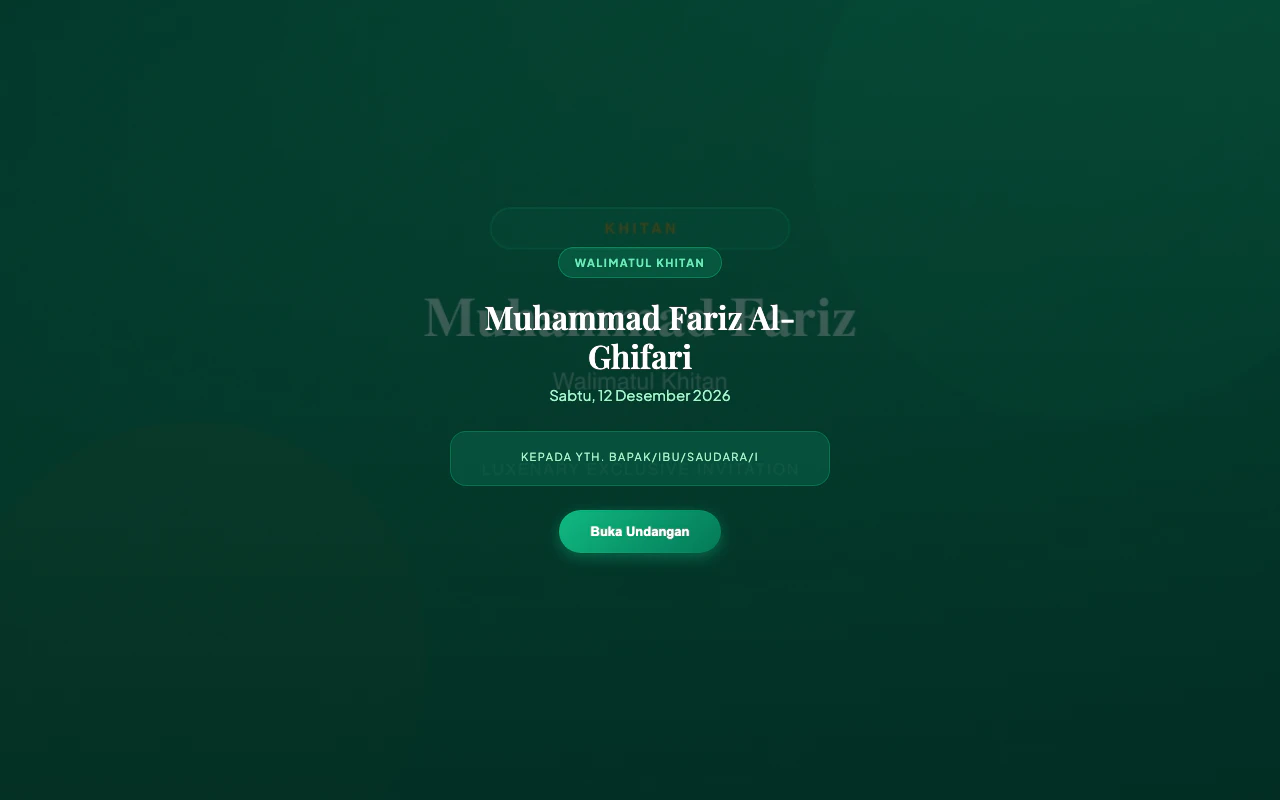
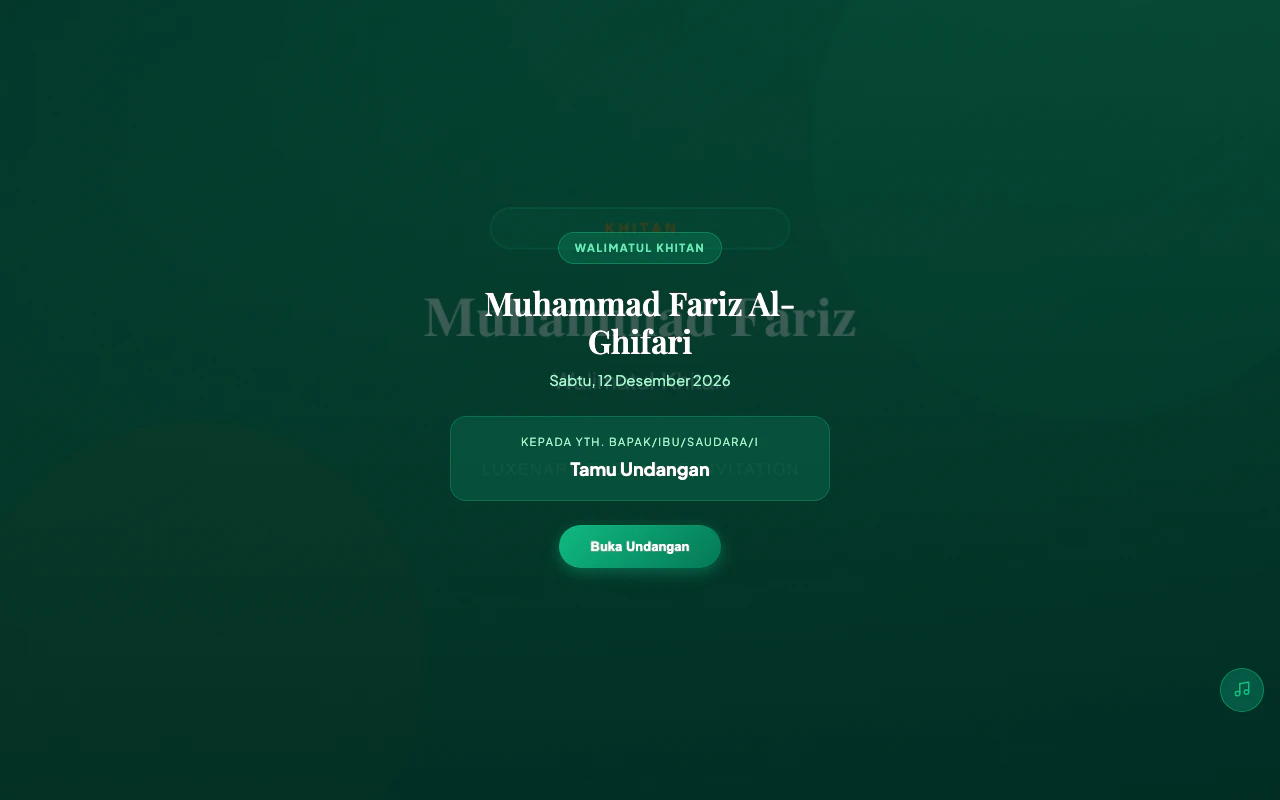
fix: guest path links carry the name, exact invitation-host matching, catalog thumbnails, README guest limits
- proxy: /Nama and /v=Nama on a subdomain or custom domain redirect (307) to /?to= / ?v=
  on the same host; runtime and theme masters read the guest name from location.search,
  so the old internal rewrite showed the invitation without the guest's name.
- invitationHomePath: gallery/moment pages redirect and link to "/" on the invitation's
  own host ("/<slug>" there is now a guest link) and to "/<slug>" on the apex.
- Invitation-host detection matches "<subdomain>.<apex>" exactly (also in the gallery-mode
  redirect); a prefix check matched the apex itself when a client subdomain equals the
  apex's first label.
- Dummy catalog thumbnails for riang, fajar, buaian, prakarsa from their demos' cover
  photos (replaceable from Studio Demo); al-fariz, al-khalid, cendekia, sinergi thumbnails
  regenerated from current demos (sinergi showed a raw {{eventBadge}} token).
- README no longer claims 300/1,000 guest caps: buyer-facing package text promises
  unlimited guest links and the code enforces none.
- Tests in subdomainProxy.test.ts and e2eFindings20261020.test.ts; docs synced.

diff --git a/proxy.ts b/proxy.ts
@@ -22,6 +22,25 @@ const CACHE_TTL_MS = 5 * 60 * 1000; // 5 menit
 const INTERNAL_BASE_URL = `http://127.0.0.1:${process.env.PORT || "3000"}`;
 const CACHE_MAX_ENTRIES = 2000;
 
+/**
+ * Tautan tamu bentuk /Nama atau /v=Nama di subdomain atau custom domain: nama dipindah ke ?to= / ?v= di URL peramban.
+ * Skrip runtime dan master tema membaca nama tamu dari location.search, jadi rewrite internal (URL peramban tetap
+ * /Nama) membuat undangan tampil tanpa nama tamu.
+ */
+function guestPathRedirect(req: { nextUrl: URL }, host: string, segment: string) {
+  let name = segment;
+  try {
+    name = decodeURIComponent(segment);
+  } catch {
+    // Persen-encoding rusak (mis. "50%"): segmen dipakai apa adanya sebagai nama.
+  }
+  const target = new URL("/", `${req.nextUrl.protocol}//${host}`);
+  target.search = req.nextUrl.search;
+  if (name.startsWith("v=")) target.searchParams.set("v", name.slice(2));
+  else target.searchParams.set("to", name);
+  return NextResponse.redirect(target, 307);
+}
+
 async function resolveCustomDomain(host: string): Promise<CustomDomainResolution | null> {
   const now = Date.now();
 
@@ -219,15 +238,7 @@ export const proxy = auth(async (req) => {
       // Dynamic Path Routing for Guest Invitation (e.g. /v=Budi or /Sutejo)
       const segments = pathname.split('/').filter(Boolean);
       if (segments.length === 1) {
-        const guestParam = segments[0];
-        const rewriteUrl = new URL(`/s/${subdomain}`, req.url);
-        rewriteUrl.search = req.nextUrl.search;
-        if (guestParam.startsWith('v=')) {
-          rewriteUrl.searchParams.set('v', guestParam.slice(2));
-        } else {
-          rewriteUrl.searchParams.set('to', guestParam);
-        }
-        return NextResponse.rewrite(rewriteUrl);
+        return guestPathRedirect(req, host, segments[0]);
       }
 
       // HTML terbit dan halaman /s/<sub> menautkan ke /s/<sub>/..., bentuk yang sah di apex. Di host subdomain undangan
@@ -291,9 +302,7 @@ export const proxy = auth(async (req) => {
           if (isFinished && !viewInvitation) {
             return NextResponse.rewrite(new URL(`/${slug}/memories${req.nextUrl.search}`, req.url));
           }
-          const rewriteUrl = new URL(`/${slug}`, req.url);
-          rewriteUrl.searchParams.set('to', segments[0]);
-          return NextResponse.rewrite(rewriteUrl);
+          return guestPathRedirect(req, host, segments[0]);
         }
       }
     } catch {

diff --git a/app/(public)/s/[subdomain]/route.ts b/app/(public)/s/[subdomain]/route.ts
@@ -1,6 +1,6 @@
 import { NextRequest, NextResponse } from "next/server";
 import { prisma } from "@/lib/prisma";
-import { isSubdomainExpired } from "@/lib/domainUtils";
+import { getApexRootDomain, isSubdomainExpired } from "@/lib/domainUtils";
 import { getPublishedHtml, buildAndSavePublishedHtml } from "@/lib/staticPublisher";
 import { composeTemplateData } from "@/lib/themeEngine";
 import { renderTemplateFile } from "@/lib/renderTemplate";
@@ -126,7 +126,7 @@ export async function GET(req: NextRequest, { params }: { params: Promise<{ subd
         // dari req.url membawa tamu di sub.domain ke /memories milik apex (halaman demo platform). Browser menyelesaikan
         // path relatif terhadap alamat yang sedang dibuka: host subdomain -> /memories, bentuk apex /s/<sub> -> /s/<sub>/memories.
         const host = (req.headers.get("host") || "").split(":")[0].toLowerCase();
-        const onInvitationHost = host.startsWith(`${subdomain.toLowerCase()}.`);
+        const onInvitationHost = host === `${subdomain.toLowerCase()}.${getApexRootDomain().split(":")[0].toLowerCase()}`;
         const target = `${onInvitationHost ? "" : `/s/${subdomain}`}/memories${req.nextUrl.search}`;
         return new NextResponse(null, { status: 307, headers: { Location: target } });
       }
@@ -170,7 +170,7 @@ export async function GET(req: NextRequest, { params }: { params: Promise<{ subd
   };
 
   if (invitation.status === "PUBLISHED" && !isPreview) {
-    // Edge cache 1 jam: tautan tamu (/Nama, ?to=Nama) adalah kunci cache terpisah yang tidak ikut terhapus purge URL
+    // Edge cache 1 jam: tautan tamu (?to=Nama; bentuk /Nama dialihkan proxy ke sana) adalah kunci cache terpisah yang tidak ikut terhapus purge URL
     // dasar, jadi masa cache ini sekaligus batas lama undangan yang diturunkan/diubah masih tampil di tautan tamu.
     responseHeaders["Cache-Control"] = "public, max-age=60, s-maxage=3600, stale-while-revalidate=300";
   } else {

diff --git a/lib/serverDomainUtils.ts b/lib/serverDomainUtils.ts
@@ -1,4 +1,5 @@
 import { headers } from "next/headers";
+import { getApexRootDomain, isCustomDomainHost } from "@/lib/domainUtils";
 
 /**
  * Mendeteksi URL origin aplikasi secara dinamis dari incoming request headers.
@@ -81,4 +82,19 @@ export async function getDynamicServerRootDomain(defaultFallback = "localhost:30
 
   const envRoot = process.env.NEXT_PUBLIC_ROOT_DOMAIN || "";
   return envRoot.replace(/^https?:\/\//, "").replace(/\/$/, "") || defaultFallback;
+}
+
+/**
+ * Alamat beranda undangan untuk redirect dari halaman turunannya (/memories, /sharemoment). Di host subdomain atau
+ * custom domain undangan itu sendiri berandanya "/": "/<slug>" di host tersebut dibaca proxy sebagai tautan tamu
+ * bernama <slug>.
+ */
+export async function invitationHomePath(invitation: { invitationSlug: string; subdomain: string | null; customDomain: string | null }): Promise<string> {
+  const hostHeader = (await headers()).get("host");
+  const host = (hostHeader || "").split(":")[0].toLowerCase();
+  // Dicocokkan persis dengan <subdomain>.<apex>: awalan saja juga cocok dengan apex itu sendiri bila subdomain klien
+  // sama dengan label pertama domain utama (mis. subdomain "luxenary" di luxenary.id).
+  const apex = getApexRootDomain().split(":")[0].toLowerCase();
+  const onSubdomain = !!invitation.subdomain && host === `${invitation.subdomain.toLowerCase()}.${apex}`;
+  return onSubdomain || isCustomDomainHost(hostHeader, invitation.customDomain) ? "/" : `/${invitation.invitationSlug}`;
 }

diff --git a/app/(public)/[slug]/memories/page.tsx b/app/(public)/[slug]/memories/page.tsx
@@ -3,6 +3,7 @@ import { notFound, redirect } from "next/navigation";
 import Link from "next/link";
 import { prisma } from "@/lib/prisma";
 import { hasPlanCapability } from "@/lib/settings";
+import { invitationHomePath } from "@/lib/serverDomainUtils";
 import { resolveInvitationDisplayName } from "@/lib/invitationUtils";
 import { jsonForInlineScript } from "@/lib/safeJson";
 import { parseFeatureSettings } from "@/lib/featureSettings";
@@ -52,15 +53,16 @@ export default async function GuestMemoriesGalleryPage({ params }: PageProps) {
   }
 
   // Cek kapabilitas guest_memories secara dinamis berdasarkan konfigurasi admin
+  const homePath = await invitationHomePath(invitation);
   const canAccessMemories = await hasPlanCapability(invitation.order?.planType, "guest_memories");
   if (!canAccessMemories) {
-    redirect(`/${slug}`);
+    redirect(homePath);
   }
 
   const memories: any[] = invitation.guestMemories || [];
   const coupleName = resolveInvitationDisplayName(invitation);
-  const invitationUrl = `/${slug}?view=invitation`;
-  const shareMomentUrl = `/${slug}/sharemoment`;
+  const invitationUrl = `${homePath}?view=invitation`;
+  const shareMomentUrl = homePath === "/" ? "/sharemoment" : `/${slug}/sharemoment`;
 
   // ── 1. PARSE FEATURE SETTINGS & DELAYED REVEAL STATUS ──
   const fs = parseFeatureSettings(invitation.featureSettings);

diff --git a/__tests__/unit/subdomainProxy.test.ts b/__tests__/unit/subdomainProxy.test.ts
@@ -64,3 +64,23 @@ describe("proxy: batas pengalihan tetap", () => {
     expect(res.headers.get("x-middleware-next")).toBe("1");
   });
 });
+
+describe("proxy: tautan tamu bentuk /Nama di host subdomain", () => {
+  // Skrip undangan membaca nama tamu dari location.search; rewrite internal membuat sampul tampil tanpa nama.
+  it("/Nama dialihkan ke /?to=Nama di host yang sama (spasi ter-decode, query lain ikut)", async () => {
+    const res = await run("bagas-laras.localhost:3000", "/Budi%20Santoso?autoplay=1");
+    expect(res.status).toBe(307);
+    const loc = new URL(res.headers.get("location")!);
+    expect(loc.host).toBe("bagas-laras.localhost:3000");
+    expect(loc.pathname).toBe("/");
+    expect(loc.searchParams.get("to")).toBe("Budi Santoso");
+    expect(loc.searchParams.get("autoplay")).toBe("1");
+  });
+
+  it("/v=Nama dialihkan ke /?v=Nama; persen-encoding rusak dipakai apa adanya", async () => {
+    const v = new URL((await run("bagas-laras.localhost:3000", "/v=Rina")).headers.get("location")!);
+    expect(v.searchParams.get("v")).toBe("Rina");
+    const broken = new URL((await run("bagas-laras.localhost:3000", "/Diskon%50%")).headers.get("location")!);
+    expect(broken.searchParams.get("to")).toBe("Diskon%50%");
+  });
+});

diff --git a/app/(public)/[slug]/sharemoment/page.tsx b/app/(public)/[slug]/sharemoment/page.tsx
@@ -3,6 +3,7 @@ import { notFound, redirect } from "next/navigation";
 import { prisma } from "@/lib/prisma";
 import GuestMomentClient from "@/app/components/features/GuestMomentClient";
 import { hasPlanCapability, getPlanMemoriesQuota } from "@/lib/settings";
+import { invitationHomePath } from "@/lib/serverDomainUtils";
 import { getMemoriesActiveSchedule } from "@/lib/domainUtils";
 import { resolveInvitationDisplayName } from "@/lib/invitationUtils";
 import { parseFeatureSettings } from "@/lib/featureSettings";
@@ -55,7 +56,7 @@ export default async function FreeGuestMemoriesStandalonePage({ params, searchPa
   // Cek kapabilitas guest_memories secara dinamis berdasarkan konfigurasi admin
   const canAccessMemories = await hasPlanCapability(invitation.order?.planType, "guest_memories");
   if (!canAccessMemories) {
-    redirect(`/${slug}`);
+    redirect(await invitationHomePath(invitation));
   }
 
   const coupleName = resolveInvitationDisplayName(invitation);

diff --git a/__tests__/integration/e2eFindings20261020.test.ts b/__tests__/integration/e2eFindings20261020.test.ts
@@ -58,6 +58,16 @@ describe.skipIf(!IS_TEST_DB)("mode galeri dialihkan di host yang sama", () => {
     const onApex = await subdomainRoute(new NextRequest(`http://localhost:3200/s/${sub}`, { headers: { host: "localhost:3200" } }), params);
     expect(onApex.status).toBe(307);
     expect(onApex.headers.get("location")).toBe(`/s/${sub}/memories`);
+
+    // Subdomain klien sama dengan label pertama domain utama (mis. "luxenary" di luxenary.id): apex bukan host undangan.
+    const prevRoot = process.env.NEXT_PUBLIC_ROOT_DOMAIN;
+    process.env.NEXT_PUBLIC_ROOT_DOMAIN = `${sub}.test`;
+    try {
+      const sameLabel = await subdomainRoute(new NextRequest(`http://${sub}.test/s/${sub}`, { headers: { host: `${sub}.test` } }), params);
+      expect(sameLabel.headers.get("location")).toBe(`/s/${sub}/memories`);
+    } finally {
+      process.env.NEXT_PUBLIC_ROOT_DOMAIN = prevRoot;
+    }
   });
 });
 

diff --git a/docs/SYSTEM_ARCHITECTURE.md b/docs/SYSTEM_ARCHITECTURE.md
@@ -3139,6 +3139,7 @@ Migrasi: `20260930045346_add_order_charged_amount` (kolom `orders.chargedAmount`
 46. **Kamera Momen tanpa batas IP + kontras Kado Digital tema satu nama (21 Okt 2026; dijaga `e2eFindings20261020.test.ts`):** (a) `app/api/public/memories/upload/route.ts` tidak lagi membatasi per IP (`memories_upload:<ip>` 15/menit menolak tamu sah yang berbagi Wi-Fi gedung atau IP CGNAT saat acara). Batas kini dihitung setelah validasi data, sebelum kueri DB: per undangan 180/menit (`memories_upload:inv:<id>`) dan per undangan + `senderEmail` 10/menit (`memories_upload:sender:<id>:<email>`); kuota per undangan dan kunci Kamera Momen tetap berlaku. Uji: 30 pengirim berbeda dari satu IP tidak ada yang 429; pengirim yang sama ke-11 dan ke-12 dalam semenit 429. (b) `buildUniversalGiftSection` (`lib/themeEngine.ts`, dipakai 10 tema satu nama: al-fariz, al-khalid, buaian, cendekia, fajar, festivo, kalandra-birthday, riang, sinergi, toga) menulis nama bank dan tombol "Salin No. Rekening" dengan `var(--primary)` murni di atas kartu bernada sama: kontras 1,9:1 di sinergi. Kini `color-mix(in srgb, var(--primary) 30%, var(--text-main))`; diukur di 10 demo: 5,1:1 (sinergi) sampai 17,6:1. Pemeriksaan visual 11 master non-pernikahan di 375 px (buka sampul, gulir penuh): tidak ada elemen tersangkut transparan dan tidak ada luapan horizontal. Catatan deploy: undangan terbit lama memakai master yang diperbaiki (RSVP butir 44) hanya setelah `npx tsx scripts/refresh-theme-drafts.ts --apply` dijalankan sekali tanpa `--keep-drafts` (deploy.sh memakai `--keep-drafts`).
 47. **Unggahan admin di luar git (21 Okt 2026, temuan sedang audit 19 Okt; dijaga `adminUploadsOutsideGit.test.ts`):** unggah aset Studio Demo menimpa `public/demo/<tema>/<slot>.*` (724 berkas dilacak git), unggah logo/favicon menimpa `public/assets/brand/*`, `public/favicon.ico`, `app/icon.png`, dan `app/apple-icon.png`; `git pull --ff-only` di deploy.sh berhenti bila commit baru mengubah berkas yang sama, dan hapus slot menghapus foto bawaan git. Kini (a) `app/api/admin/themes/[id]/demo-asset/route.ts` menulis dan menghapus di `public/uploads/demo/<tema>/` dan menyimpan URL `/uploads/demo/<tema>/<slot>.<ext>` di `theme_demo_<tema>` (disajikan rute `app/uploads/[...path]`, karena Next hanya menyajikan berkas `public/` yang ada saat build); hapus tema ikut membersihkan folder itu. (b) Logo/favicon ke `public/uploads/brand/`, disajikan `/brand/<berkas>` dengan bawaan git sebagai cadangan; seluruh rujukan (`app/layout.tsx`, `app/(admin)/layout.tsx`, `app/manifest.ts`, `components/BrandLogo.tsx`, `/api/public/settings`) memakai `/brand/`. (c) `app/icon.png` dan `app/apple-icon.png` dihapus dari repo: berkas konvensi Next mengalahkan `icons` metadata, sehingga favicon unggahan sebelumnya baru tampil setelah build ulang (isinya identik dengan `public/assets/brand/favicon-96x96.png` dan `apple-touch-icon.png`). (d) `.gitignore` mengabaikan `/public/uploads/demo/` dan `/public/uploads/brand/`. (e) Bila pull gagal, deploy.sh mencantumkan berkas unggahan lama yang diubah di server. Unggahan lama di server tetap tampil (URL `/demo/<tema>/...` dan berkas `public/assets/brand/` masih dibaca); pull pertama commit ini berhenti hanya bila `app/icon.png`/`app/apple-icon.png` pernah ditimpa unggahan favicon di server. Uji HTTP build produksi port 3200: 20/20 (head memakai `/brand/favicon-*`, `/icon.png` 404, logo unggahan langsung tersaji + ETag 304, aset demo tersaji dan dipakai demo statis, hapus slot mempertahankan foto bawaan, `git status` berkas terlacak tidak berubah). Di luar cakupan: unggah master tema (`themes/<acara>/<kategori>/<id>.html`) masih menulis ke folder yang dilacak git karena master adalah bagian model salin tema; perlu keputusan pemilik.
 48. **Perbaikan uji total 21 Okt 2026 (di luar payment gateway dan login Google; dijaga `fullAudit20261021.test.ts`):** (a) Nama tamu kembar: `POST /api/client/guests`, `/guests/bulk`, dan `PUT /guests/[id]` memeriksa nama lalu menulis tanpa kunci, sehingga 6 permintaan bersamaan menyimpan 2 baris bernama sama (klik ganda "Tambah", impor ganda). Kini pemeriksaan dan penulisan berjalan di bawah `withGuestNameLock` (`lib/guestNameLock.ts`, `pg_advisory_xact_lock` per undangan); slug tamu memakai akhiran acak, bukan `Date.now()`. (b) Aset Studio Demo dinilai dari isi berkas (`file-type`): hanya JPG/PNG/WebP, MP4/WebM/MOV, dan audio; SVG (dapat menjalankan skrip di origin platform karena CSP masih Report-Only) dan HTML berkedok gambar ditolak 415; ekstensi mengikuti isi dan hasil pengoptimal; mengosongkan atau mengganti slot menghapus semua format slot itu termasuk `.svg` unggahan lama. Input logo vendor admin tidak lagi menawarkan SVG. (c) Musik preset admin dinilai dari isi berkas (audio, atau `video/mp4` untuk M4A), bukan nama/tipe kiriman browser. (d) Tema unggahan admin dirender: `resolveThemeEntry` (`lib/renderTemplate.ts`) membaca entri dari letak master `themes/<acara>/<gaya>/<id>.html` bila id tidak ada di `THEME_MAP` (sebelumnya `renderTemplateFile` melempar galat sehingga demo dan undangan tema itu gagal). (e) Body rusak: `readJsonBody`/`readFormBody` (`lib/requestBody.ts`) melempar `HttpError(400)`; 27 rute POST/PUT/PATCH yang membalas 500 untuk JSON rusak atau body bukan multipart kini 400 tanpa mencatat galat server. (f) Approve admin mewajibkan bukti transfer untuk semua order (unggah bukti menjadikan order `MANUAL_TRANSFER`); order gateway tanpa bukti tidak lagi dapat disetujui lewat API. Uji HTTP build produksi 3200: 39/39 (8 tambah bersamaan -> 1 baris, 7 x 400; dua impor bersamaan -> 30 baris; ganti nama bersamaan -> 200 + 400; SVG/HTML 415, WebP asli tersaji; teks berkedok MP3 400, MP3 asli tersaji `audio/mpeg`; tema unggahan aktif terender di `/demo/<id>`; 0 rute 500 untuk body rusak; approve GATEWAY tanpa bukti 400 dan order tetap PENDING), matriks otorisasi 206 rute tidak berubah.
+49. **Tautan tamu bentuk /Nama (21 Okt 2026; dijaga `subdomainProxy.test.ts`):** di subdomain atau custom domain, `proxy.ts` me-rewrite `/Nama` ke `?to=Nama` secara internal, sedangkan skrip runtime (`resolveGuestName`) dan 22 master tema membaca nama tamu dari `location.search` peramban, sehingga undangan tampil tanpa nama tamu. Kini `guestPathRedirect` mengalihkan (307) `/Nama` ke `/?to=Nama` dan `/v=Nama` ke `/?v=Nama` di host yang sama (persen-encoding di-decode; encoding rusak dipakai apa adanya; query lain ikut). Akibatnya `/<slug>` di host undangan kini dibaca sebagai nama tamu, jadi redirect paket tanpa Kamera Momen di `/memories` dan `/sharemoment` serta tautan "lihat undangan"/"Kamera Momen" di galeri memakai `invitationHomePath` (`lib/serverDomainUtils.ts`): `/` di subdomain atau custom domain undangan, `/<slug>` di apex. Uji HTTP build produksi 3200 (header Host subdomain): `/Budi%20Santoso` -> `/?to=Budi+Santoso`, `/v=Rina` -> `/?v=Rina`, `/memories` paket TIER_1 -> `/` (apex tetap `/<slug>`), galeri subdomain menautkan `/?view=invitation` dan `/sharemoment`, rute `/memories`, `/sharemoment`, `/receptionist`, `/galery` tetap 200. Cabang custom domain memakai fungsi yang sama tetapi belum diuji lewat HTTP. Deteksi host undangan (`invitationHomePath` dan redirect mode galeri di `app/(public)/s/[subdomain]/route.ts`) kini mencocokkan host persis dengan `<subdomain>.<apex>` (`getApexRootDomain`), bukan awalan `<subdomain>.`: awalan juga cocok dengan apex itu sendiri bila subdomain klien sama dengan label pertama domain utama. Thumbnail katalog riang, fajar, buaian, dan prakarsa diisi sementara dari foto sampul dummy yang dipakai demo masing-masing (festivo, al-fariz, al-khalid, sinergi; 600x900 dan 900x600) sampai admin mengunggah penggantinya di Studio Demo (`thumbnailMobileUrl`/`thumbnailDesktopUrl` mengalahkan berkas bawaan). Thumbnail al-fariz, al-khalid, cendekia, dan sinergi dibangun ulang dari demo terkini lewat `scripts/generate-all-thumbnails.ts <tema>` (400x800 dan 1280x800): thumbnail sinergi lama menampilkan token mentah `{{eventBadge || "UNDANGAN RESMI"}}`. 37 thumbnail bawaan masih tangkapan layar batch `8964b7c` dan belum mengikuti perubahan master sesudahnya. Teks samar di belakang kartu sampul tema satu nama berasal dari gambar sampul dummy yang memuat teks (bukan galat render). README tidak lagi menyebut batas 300/1.000 tamu: teks paket untuk pembeli (`features_tier1`) menjanjikan tautan tamu tanpa batas dan kode tidak membatasi jumlah tamu.
 
 ## 26. Matriks Fitur Tema (hasil render mesin nyata, 1 Oktober 2026)
 

diff --git a/README.md b/README.md
@@ -188,9 +188,9 @@ Pre-Flight Checklist & Smart Audit (/dashboard/settings):
 
 | Paket | Kapasitas & Fitur Utama | Plafon Kamera Disposable (Admin Setting) | Pilihan Tema |
 |:--|:--|:--|:--|
-| **Serenade** *(TIER_1)* | Hingga 300 Tamu, Subdomain Platform, RSVP & Ucapan Realtime, Musik Latar Bebas, Retensi galeri sesuai Admin Setting (bawaan 30 hari) | Kamera Tamu: **Nonaktif** *(Dapat diaktifkan via Admin)* | **Bebas Semua Tema** *(Minimalist, Modern, Traditional)* |
-| **Symphony** *(TIER_2)* | Hingga 1.000 Tamu, Seluruh Fitur Serenade + **Sistem Resepsionis QR Check-In & PIN Staf Panitia**, Retensi galeri sesuai Admin Setting (bawaan 30 hari) | Total Kuota: **250 Foto Acara** *(Pengantin bebas atur roll per tamu)* | **Bebas Semua Tema** *(Minimalist, Modern, Traditional)* |
-| **Eternity** *(TIER_3)* | **Tamu Tanpa Batas (Unlimited)**, Seluruh Fitur Symphony + **Hak Integrasi Custom Domain**, Dashboard Monitoring Momen Tamu, Retensi galeri sesuai Admin Setting (bawaan 30 hari) | Total Kuota: **1.000 Foto Acara** *(Pengantin bebas atur roll per tamu)* | **Bebas Semua Tema** *(Minimalist, Modern, Traditional)* |
+| **Serenade** *(TIER_1)* | Daftar Tamu & Link WhatsApp Tanpa Batas, Subdomain Platform, RSVP & Ucapan Realtime, Musik Latar Bebas, Retensi galeri sesuai Admin Setting (bawaan 30 hari) | Kamera Tamu: **Nonaktif** *(Dapat diaktifkan via Admin)* | **Bebas Semua Tema** *(Minimalist, Modern, Traditional)* |
+| **Symphony** *(TIER_2)* | Seluruh Fitur Serenade + **Sistem Resepsionis QR Check-In & PIN Staf Panitia**, Retensi galeri sesuai Admin Setting (bawaan 30 hari) | Total Kuota: **250 Foto Acara** *(Pengantin bebas atur roll per tamu)* | **Bebas Semua Tema** *(Minimalist, Modern, Traditional)* |
+| **Eternity** *(TIER_3)* | Seluruh Fitur Symphony + **Hak Integrasi Custom Domain**, Dashboard Monitoring Momen Tamu, Retensi galeri sesuai Admin Setting (bawaan 30 hari) | Total Kuota: **1.000 Foto Acara** *(Pengantin bebas atur roll per tamu)* | **Bebas Semua Tema** *(Minimalist, Modern, Traditional)* |
 
 > Seluruh nama tier, harga, subjudul pengantar paket di homepage (`pricing_subtitle`), butir-butir fitur (`features_tier1`, `features_tier2`, `features_tier3`), serta add-on top-up foto (+100 Foto - Rp35.000) dan perpanjangan (+30 Hari - Rp50.000) dapat diatur mandiri oleh Administrator di Admin Portal → tab Paket & Harga secara dinamis tanpa perlu deploy ulang.
 
@@ -572,6 +572,7 @@ npx vitest run
 - **RSVP/Memories**: Rate-limited untuk cegah spam. RSVP publik tidak memakai batas IP (tamu satu operator seluler berbagi IP): kiriman dibatasi per undangan (300/menit, 3.000/jam) dan per nama tamu (3/menit); daftar ucapan tidak dibatasi dan di-cache 15 detik per undangan. Unggah Kamera Momen juga tanpa batas IP (tamu di Wi-Fi gedung berbagi IP): per undangan 180/menit dan per perangkat pengirim 10/menit, di samping kuota paket dan kunci Momen.
 - **Unggahan admin di luar git (21 Okt 2026)**: aset Studio Demo ditulis ke `public/uploads/demo/<tema>/`, logo/favicon ke `public/uploads/brand/` (disajikan `/brand/<berkas>`, bawaan git `public/assets/brand/` sebagai cadangan); keduanya diabaikan git sehingga `git pull --ff-only` saat deploy tidak terhalang. `app/icon.png`/`app/apple-icon.png` dihapus agar favicon unggahan langsung dipakai. Bila pull gagal, deploy.sh mencantumkan berkas unggahan lama yang diubah di server. Rincian di `docs/SYSTEM_ARCHITECTURE.md` bagian 25.11 butir 47.
 - **Perbaikan uji total (21 Okt 2026)**: nama tamu kembar dicegah dengan kunci per undangan (`lib/guestNameLock.ts`); aset Studio Demo dan musik admin dinilai dari isi berkas (SVG/HTML berkedok ditolak); tema unggahan admin dirender lewat `resolveThemeEntry`; body JSON rusak / bukan multipart dibalas 400 (`lib/requestBody.ts`); approve admin wajib bukti transfer. Rincian di `docs/SYSTEM_ARCHITECTURE.md` bagian 25.11 butir 48.
+- **Tautan tamu /Nama (21 Okt 2026)**: di subdomain dan custom domain, `/Nama` dialihkan ke `/?to=Nama` (dan `/v=Nama` ke `/?v=Nama`) agar nama tamu terbaca skrip undangan; redirect galeri memakai `invitationHomePath`. Rincian di `docs/SYSTEM_ARCHITECTURE.md` bagian 25.11 butir 49.
 - **Rate Limiter & IP Klien Tepercaya**: Login (`proxy.ts`), upload, RSVP, receptionist, serta `checkout` dan `qris/regenerate` pembayaran (15 per menit per pengguna) memakai `rateLimitDb` (PostgreSQL atomik, berlaku lintas worker PM2 dan reload). `getClientIp` hanya mempercayai header dari proxy yang dipilih lewat `TRUSTED_PROXY` (`cloudflare` default, `nginx`, `none`); `X-Forwarded-For` dan header lain diabaikan, sehingga memutar header tidak menghasilkan kunci limiter baru.
 - **Content-Security-Policy (Report-Only)**: `next.config.ts` mengirim `Content-Security-Policy-Report-Only`; pelanggaran diterima `POST /api/security/csp-report` (dibatasi ukuran 8 KB dan laju) dan hanya dicatat di log. `script-src` mencantumkan beacon Cloudflare Web Analytics (`static.cloudflareinsights.com`), dijaga `__tests__/unit/cspHeaders.test.ts`. `X-Powered-By` dimatikan. Tahap berikutnya: naikkan ke `Content-Security-Policy` penuh setelah laporan produksi bersih dan alur kamera, unggah momen, serta pembayaran diuji di browser.
 - **Alert (heartbeat) dan deploy tanpa jendela error**: `scripts/health-watch.sh` dan `scripts/cron-backup.sh` mengirim denyut ke layanan pemantau eksternal bila `HEALTHCHECK_PING_URL` dan `HEALTHCHECK_BACKUP_PING_URL` diisi di `.env` (lihat `.env.example`); layanan itu memberi tahu Anda saat denyut berhenti. `deploy.sh` membangun ke `.next-a`/`.next-b` bergantian (penanda `data/.dist-dir`), sehingga aplikasi lama tidak terganggu selama build.

diff --git a/docs/S-Invitation.md b/docs/S-Invitation.md
@@ -1467,3 +1467,4 @@ Rincian teknis di `docs/SYSTEM_ARCHITECTURE.md` bagian 27. Ringkasan fungsional:
 35. (21 Okt) Foto Kamera Momen dari banyak tamu yang tersambung ke Wi-Fi gedung yang sama tidak lagi ditolak saat acara: batasnya kini per undangan dan per perangkat pengirim (10 foto per menit), bukan per alamat IP; kuota foto paket dan penguncian Momen oleh klien tetap berlaku. Pada 10 tema satu nama (al-fariz, al-khalid, buaian, cendekia, fajar, festivo, kalandra-birthday, riang, sinergi, toga), nama bank dan tombol "Salin No. Rekening" di kartu Kado Digital kini kontras dengan kartunya; sebelumnya nyaris tak terbaca di tema bernuansa gelap seperti sinergi dan cendekia.
 36. (21 Okt) Foto, video, dan musik yang admin unggah di Studio Demo, serta logo dan favicon platform, kini disimpan terpisah dari berkas bawaan aplikasi. Pembaruan aplikasi tidak lagi gagal karena admin pernah mengganti foto demo atau logo, foto bawaan tema tidak ikut terhapus saat admin mengosongkan slot, dan favicon baru langsung tampil tanpa menunggu pembaruan aplikasi berikutnya.
 37. (21 Okt) Menekan "Tambah tamu" berkali-kali atau mengimpor daftar yang sama dua kali tidak lagi menghasilkan tamu bernama kembar. Studio Demo dan unggah musik admin hanya menerima foto, video, dan audio sungguhan; logo vendor berformat SVG tidak lagi diterima (gunakan PNG atau WebP). Tema baru yang diunggah admin kini dapat ditampilkan di demo dan dipakai klien. Data yang terkirim rusak kini dijawab dengan pesan "Format data tidak valid." alih-alih galat server. Admin hanya dapat menyetujui pembayaran yang memiliki bukti transfer.
+38. (21 Okt) Tautan undangan yang diketik dengan nama tamu di belakang alamat (misalnya `nama-klien.domain.com/Budi`) kini menampilkan nama tamu di sampul, sama seperti tautan `?to=Budi` yang dibuat dasbor. Tamu yang membuka galeri atau Kamera Momen pada paket tanpa fitur itu kembali ke halaman undangan di alamat yang sama. Tema Riang, Fajar, Buaian, dan Prakarsa kini memiliki gambar katalog sementara (foto sampul demo) yang dapat diganti admin lewat Studio Demo.
